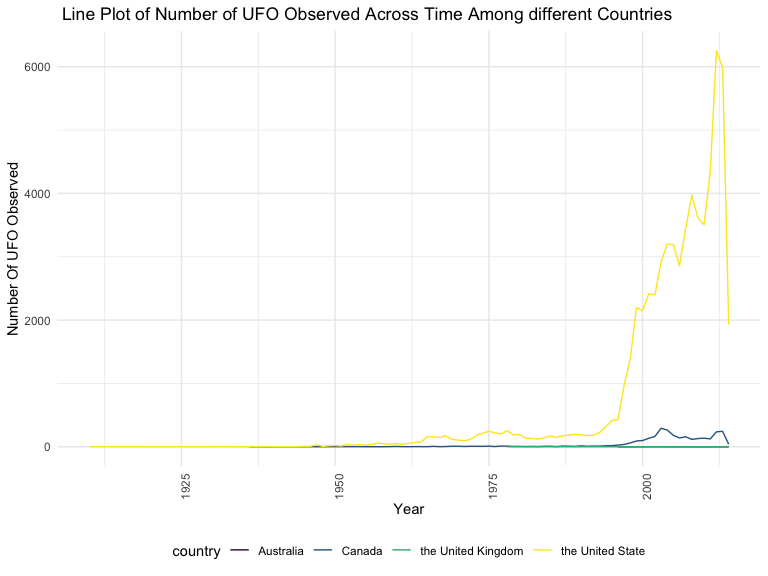
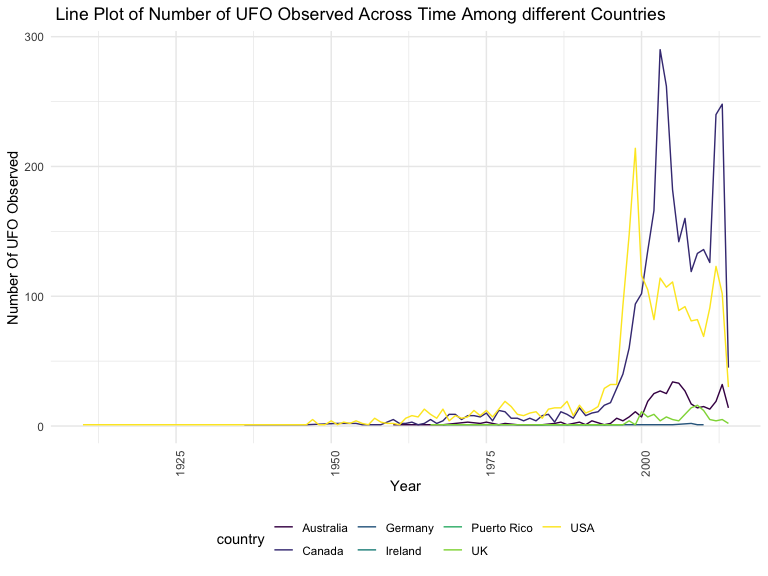
update

diff --git a/visualization_-Keyi.md b/visualization_-Keyi.md
@@ -6,22 +6,23 @@ Keyi Wang
 ## reading data
 
 ``` r
-ufo_data = readr::read_csv("https://raw.githubusercontent.com/rfordatascience/tidytuesday/master/data/2019/2019-06-25/ufo_sightings.csv")
+ufo_data = read_csv("tidied_data_final.csv")
 ```
 
     ## Parsed with column specification:
     ## cols(
+    ##   latitude = col_double(),
+    ##   longitude = col_double(),
     ##   date_time = col_character(),
-    ##   city_area = col_character(),
-    ##   state = col_character(),
-    ##   country = col_character(),
+    ##   city_description = col_character(),
     ##   ufo_shape = col_character(),
     ##   encounter_length = col_double(),
     ##   described_encounter_length = col_character(),
     ##   description = col_character(),
     ##   date_documented = col_character(),
-    ##   latitude = col_double(),
-    ##   longitude = col_double()
+    ##   country = col_character(),
+    ##   state = col_character(),
+    ##   city = col_character()
     ## )
 
 ``` r
@@ -38,12 +39,15 @@ mutate(country = recode(country ,
 ```
 
 ``` r
-## A bargraph showing the total number of UFO observed among 4 countries. As the number of UFO  observed in Australia and Britain is really low, for later graphs, we decided to omit data in these two countries.
+## A bargraph showing the total number of UFO observed among 7 countries.
 
 ufo %>%
   group_by(country) %>%
   count() %>%
- mutate(precentage = n/66516) %>%
+  ungroup()%>%
+ mutate(precentage = n/66516,
+      country = factor(country),
+      country = forcats::fct_reorder(country, n))%>%
 ggplot(aes(x = country, y = precentage , fill = country, label =  scales::percent(precentage))) + 
     geom_col(position = 'dodge') + 
     geom_text(position = position_dodge(width = .9),  
@@ -87,7 +91,7 @@ Canada, but the amount of them is not as much as the United States.
 ### Boxplot showing the distribution of the UFO Shape Observed in US
   
 ufo %>%
-  filter(country == "the United State")%>%
+  filter(country == "USA",year >= 1950) %>%
   group_by(state) %>%
   count(ufo_shape) %>%
   arrange(desc(n)) %>% 
@@ -116,23 +120,25 @@ flare, hezagon, pyramid and round.
 ``` r
 ## heatmap showing 
   ufo %>%
-  filter(year >= 1950, encounter_length < 10000) %>%
+  filter(country == "USA", year >= 1950, encounter_length <6000) %>%
   select(year, month, encounter_length) %>%
-  mutate(year = as.numeric(year))%>%
-  arrange(desc(month)) %>%
-  mutate(month = month.name[as.numeric(month)]) %>%
+  mutate(year = as.numeric(year),
+         month = as.numeric(month)) %>%
   group_by(year,month) %>%
+  arrange(desc(month)) %>%
   mutate(
   ave_encountered_length = mean(encounter_length/60)) %>%
   select(-encounter_length) %>%
+  ungroup() %>%
+  mutate(month = month.name[as.numeric(month)]) %>%
   ggplot(aes(x = year, y = month)) +
   geom_tile(aes(fill = ave_encountered_length), colour = "white") +
   scale_fill_gradient(low = "lightyellow", high = "darkblue") +
   scale_x_continuous(name="Years", 
                      breaks = c(1950,    1955,1960,1965,1970,1975,1980,1985,1990,1995,2000,2005,2010,2015
-                                ), limits=c (1950,2015))+
+                                ), limits= c (1950,2015))+
   labs(
-    title = "Average UFO Encounter Length Compared among Months Across Time ",
+    title = "Average UFO Encounter Length Compared among Months Across Time in USA ",
     x = "Years",
     y = "Month"
   ) + 
@@ -141,3 +147,21 @@ flare, hezagon, pyramid and round.
 ```
 
 <img src="visualization_-Keyi_files/figure-gfm/unnamed-chunk-5-1.png" width="90%" />
+
+``` r
+ ufo %>%
+  filter(country == "Canada", year >= 1950, encounter_length < 6000) %>%
+  select(year, month, encounter_length) %>%
+  arrange(year) %>%
+  group_by(year, month)%>%
+  mutate(
+    encounter_length = encounter_length/60,
+  ave_encountered_length = mean(encounter_length))%>%
+  select(-encounter_length) %>%
+  arrange(desc(month)) %>%
+  ggplot(aes(x = year, y = month)) +
+  geom_tile(aes(fill = ave_encountered_length), colour = "white") +
+  scale_fill_gradient(low = "lightyellow", high = "darkgreen") 
+```
+
+<img src="visualization_-Keyi_files/figure-gfm/unnamed-chunk-5-2.png" width="90%" />
